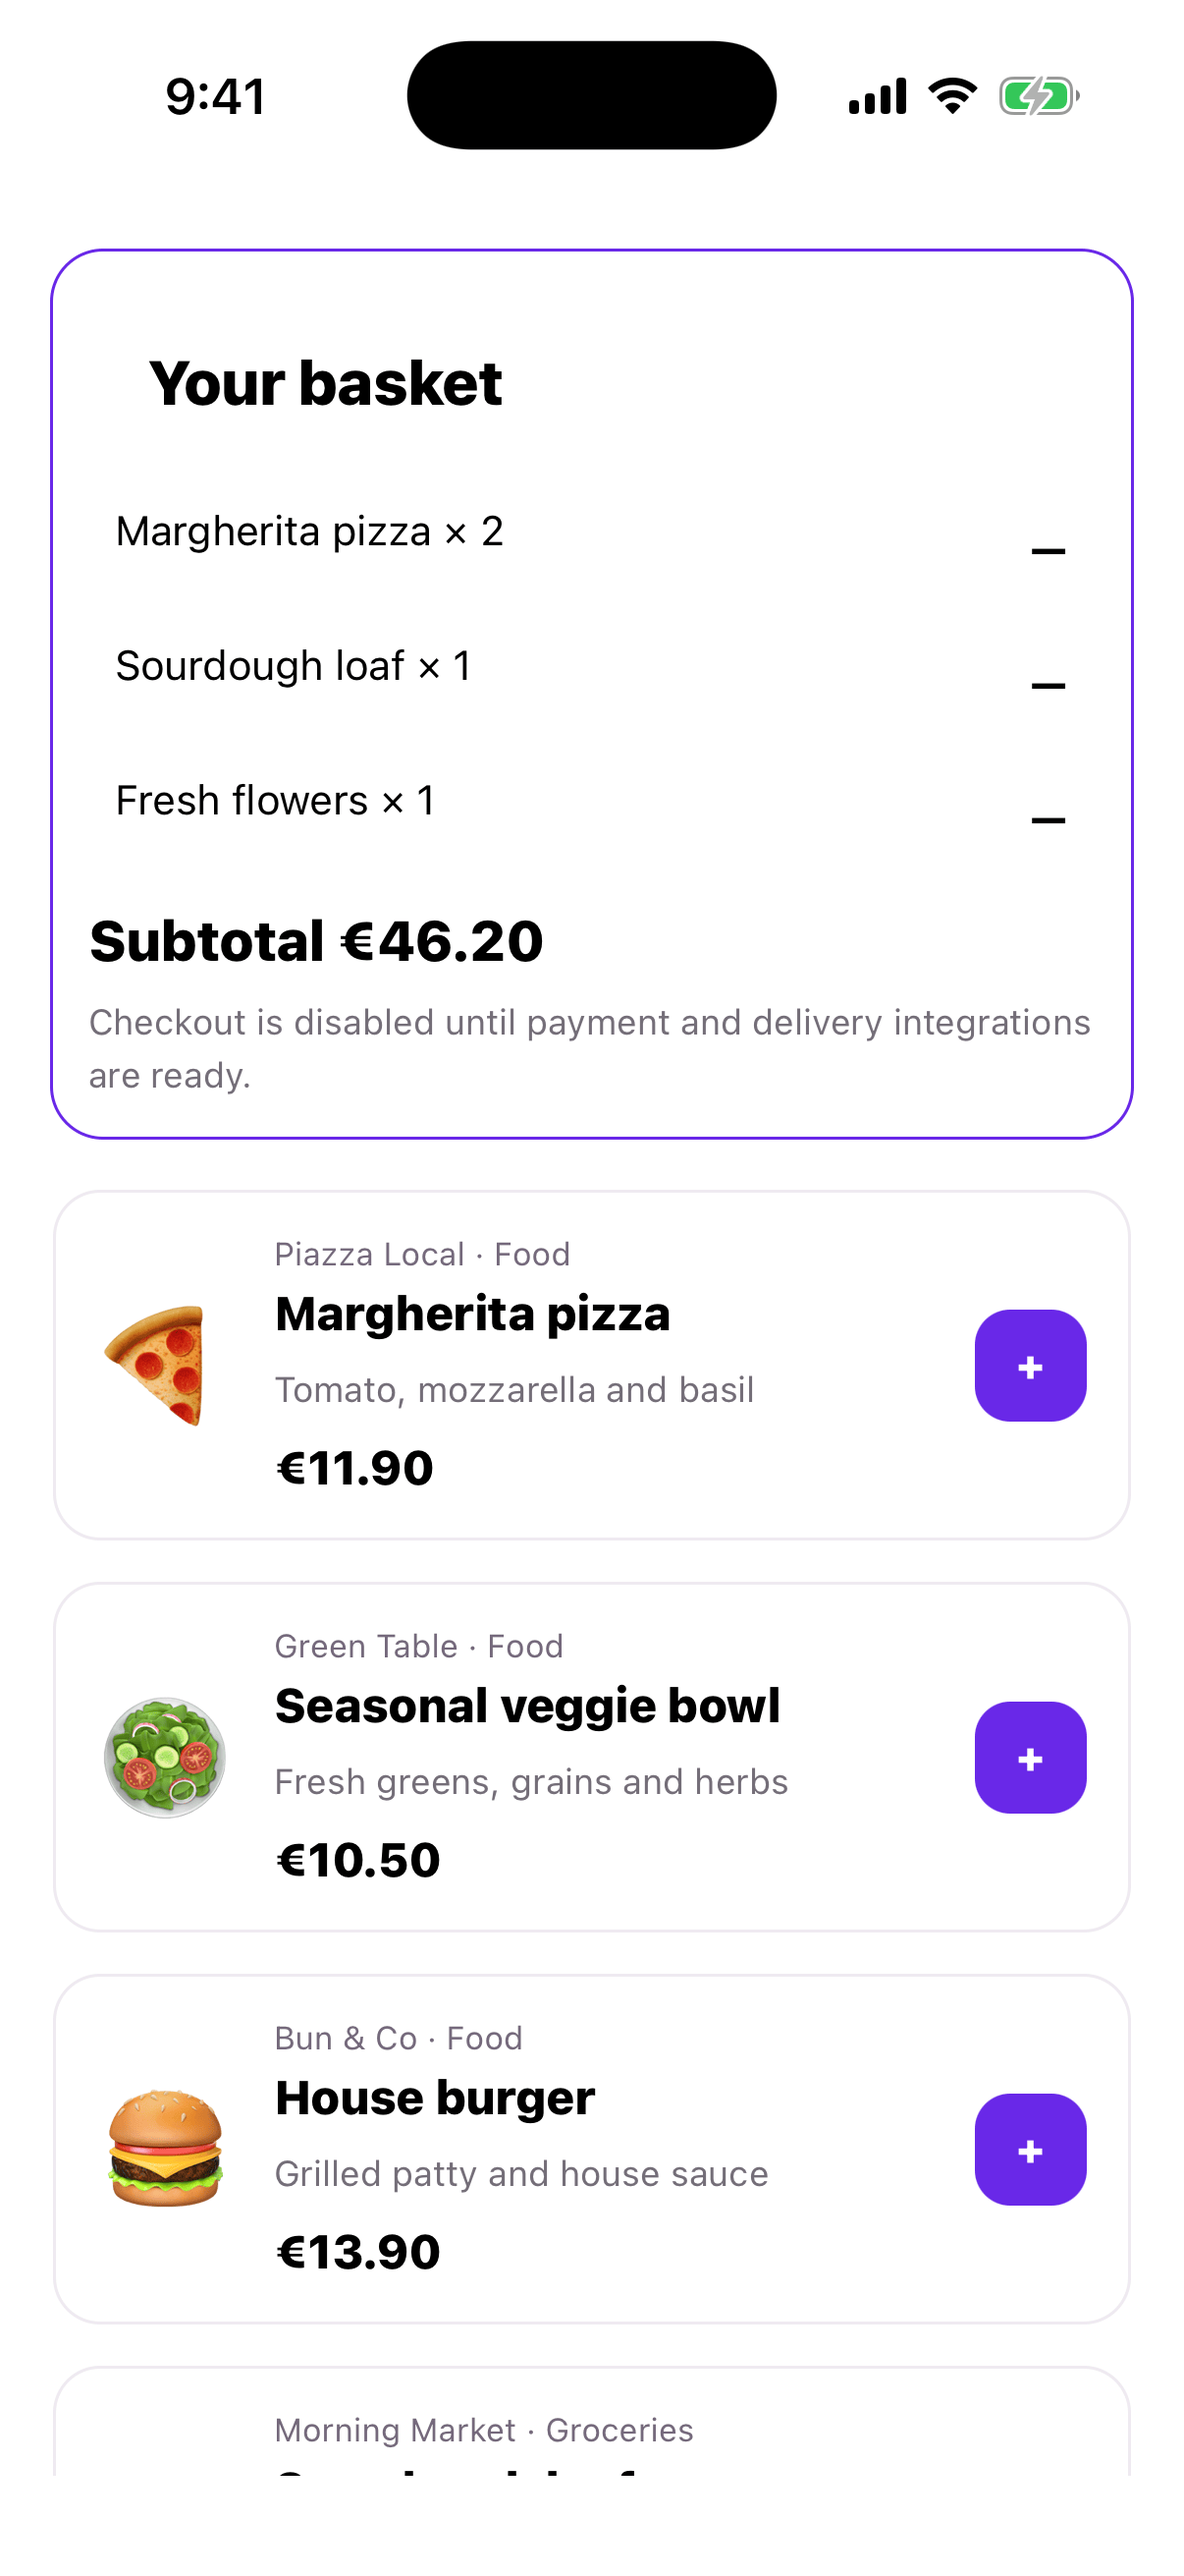
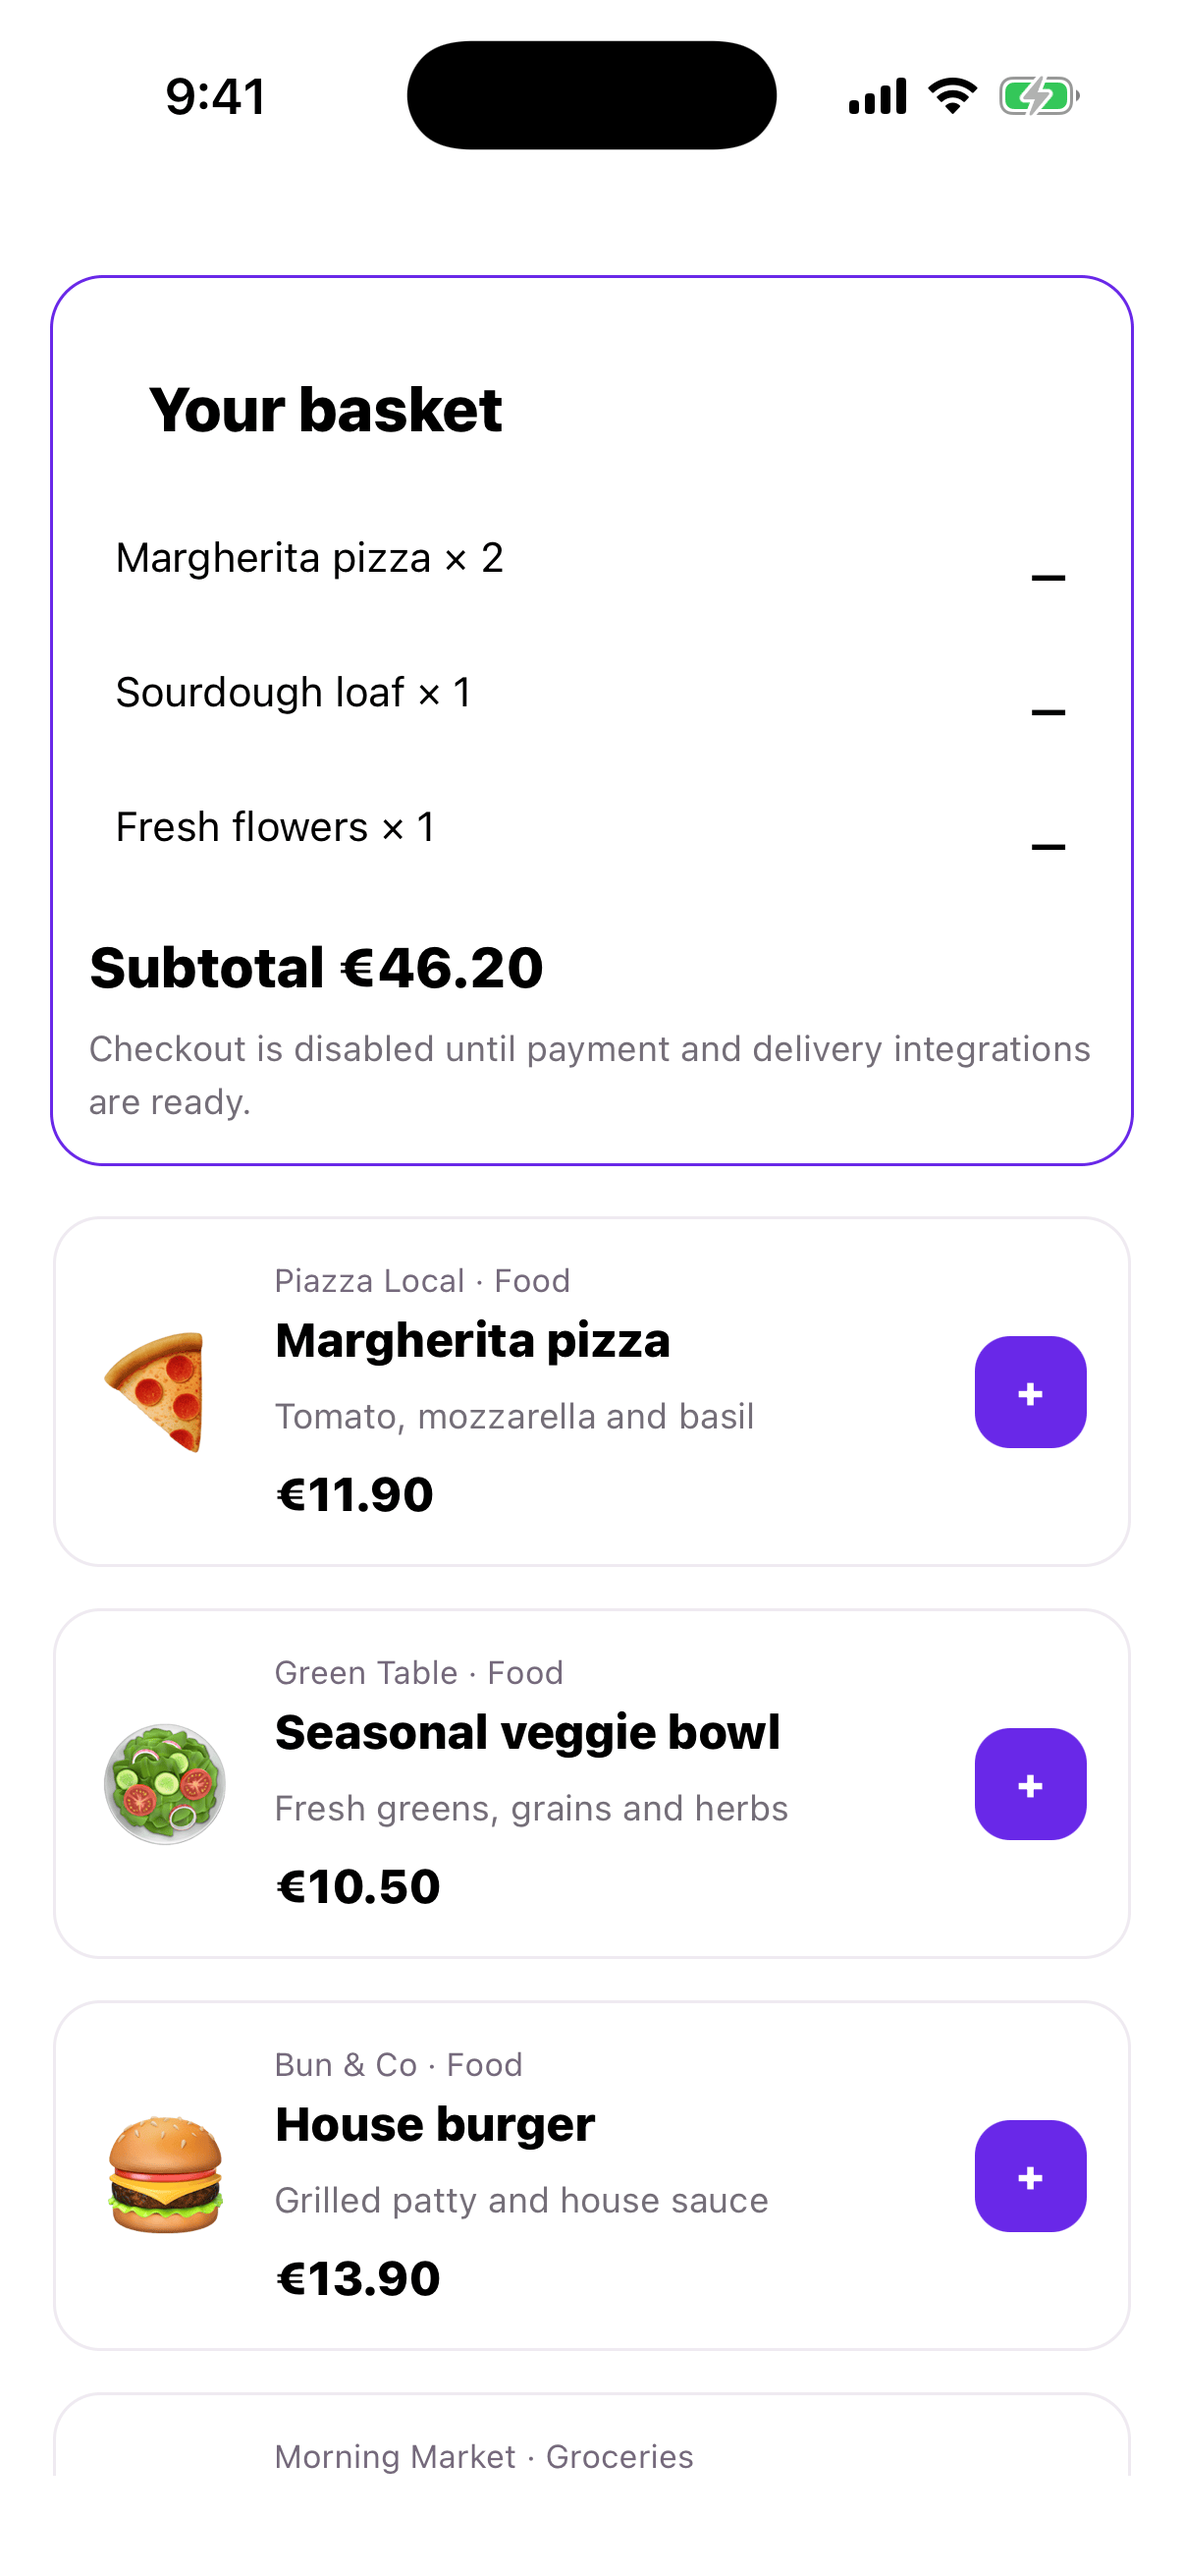
docs(screenshots): native gallery from run 44817080915, checksums and pinned capture tools
Refs #37

diff --git a/README.md b/README.md
@@ -64,16 +64,23 @@ SUT reference imagery captured from the real app. These are not Wopee or Appium 
 
 | Provenance | iOS | Android |
 | --- | --- | --- |
-| Workflow run | [SUT screenshots #44811016593](https://github.com/wopee-io-demos/tazumo/actions/runs/44811016593) | same run |
+| Workflow run | [SUT screenshots #44817080915](https://github.com/wopee-io-demos/tazumo/actions/runs/44817080915) | same run |
 | SUT commit | [`3354ab6`](https://github.com/wopee-io-demos/tazumo/commit/3354ab63930c56ff8fb138e55c1682c54029a04c) (last change to `apps/mobile`, `packages`, workspace config) | same |
-| Capture commit | `e7c1390` (PR head of [#57](https://github.com/wopee-io-demos/tazumo/pull/57)) | same |
+| Capture commit | `b925225` on the [#57](https://github.com/wopee-io-demos/tazumo/pull/57) branch. Later commits in that PR only pinned the Maestro download and emulator action, forced Android light mode and added checksums and resolved versions to `provenance.json` | same |
 | Build | Release `iphonesimulator` build with the JS bundle embedded, unsigned | Release-variant APK with the JS bundle embedded, signed with the debug keystore, x86_64 |
-| Device | iPhone 16 Pro simulator, iOS 26.2, Xcode 16.4, hosted `macos-15` | `sdk_gphone64_x86_64` emulator, Android 14 (API 34), hosted `ubuntu-latest` with KVM |
+| Device | iPhone 16 Pro simulator on the iOS 26.2 runtime, built with Xcode 16.4 (iPhoneSimulator 18.5 SDK), hosted `macos-15` | `sdk_gphone64_x86_64` emulator, Android 14 (API 34), hosted `ubuntu-latest` with KVM |
 | Capture | `xcrun simctl io screenshot`; taps by Maestro 1.41.0 | `adb exec-out screencap -p`; taps by Maestro 1.41.0 |
 | Fixture data | Same synthetic catalogue and cart as the web gallery | same |
-| Captured | 2026-11-20 ([`provenance.json`](docs/screenshots/ios/provenance.json)) | 2026-11-20 ([`provenance.json`](docs/screenshots/android/provenance.json)) |
+| Captured | 2026-11-20 ([`provenance.json`](docs/screenshots/ios/provenance.json), [`SHA256SUMS`](docs/screenshots/ios/SHA256SUMS)) | 2026-11-20 ([`provenance.json`](docs/screenshots/android/provenance.json), [`SHA256SUMS`](docs/screenshots/android/SHA256SUMS)) |
 
-The PNGs are the exact files from the run's `tazumo-screenshots-ios` and `tazumo-screenshots-android` artifacts, optimised in CI with pngquant. Regenerate them by running the [SUT screenshots workflow](.github/workflows/screenshots.yml) (`workflow_dispatch`, or any PR touching `apps/mobile/**`, `packages/**` or the capture files), then `gh run download <run-id> -n tazumo-screenshots-ios -n tazumo-screenshots-android` into `docs/screenshots/`. Release builds are used because debug builds need a running Metro dev server.
+The PNGs and `provenance.json` are the exact files from the run's `tazumo-screenshots-ios` and `tazumo-screenshots-android` artifacts, optimised in CI with pngquant; `SHA256SUMS` was computed from the downloaded artifacts, so the match stays checkable after the artifacts expire (newer runs also write the checksums into `provenance.json`). To regenerate, run the [SUT screenshots workflow](.github/workflows/screenshots.yml) (`workflow_dispatch`, or any PR touching `apps/mobile/**`, `packages/**` or the capture files), then:
+
+```sh
+gh run download <run-id> -n tazumo-screenshots-ios -D docs/screenshots/ios
+gh run download <run-id> -n tazumo-screenshots-android -D docs/screenshots/android
+```
+
+Release builds are used because debug builds need a running Metro dev server.
 
 ## Delivery governance
 [GitHub Issues backlog](https://github.com/wopee-io-demos/tazumo/issues) is the operational tracker. Changes require issue, OpenSpec and, when relevant, ADR. Read [PR quality and merge policy](docs/PR-QUALITY.md).

diff --git a/openspec/changes/readme-screenshots/tasks.md b/openspec/changes/readme-screenshots/tasks.md
@@ -9,9 +9,10 @@
 - [x] Current-head CI green ([run 44809089544](https://github.com/wopee-io-demos/tazumo/actions/runs/44809089544)), independent review recorded, merged in #52 as `f047b5a`.
 
 ## Native gallery (PR 2)
-- [x] `.github/workflows/screenshots.yml`: web job, iOS simulator job (hosted macos-15, Release simulator build, iPhone 16 Pro / iOS 26.2) and Android emulator job (ubuntu-latest + KVM, API 34 x86_64, release-variant APK); Maestro 1.41.0 taps, platform-tool screenshots, pngquant, artifacts. Evidence: [run 44811016593](https://github.com/wopee-io-demos/tazumo/actions/runs/44811016593) on `e7c1390`, all three jobs success.
-- [x] CI PNGs copied into `docs/screenshots/ios/` and `docs/screenshots/android/` with their `provenance.json`; sha256 of committed files equals the downloaded artifacts. All four PNGs opened: real app, catalogue and cart with subtotal €46.20.
-- [x] Android status bar demo mode re-applied right before each screencap (run 44811016593 showed a real clock); validated by the current-head run, committed PNGs stay those of run 44811016593.
+- [x] `.github/workflows/screenshots.yml`: web job, iOS simulator job (hosted macos-15, Release simulator build, iPhone 16 Pro on iOS 26.2) and Android emulator job (ubuntu-latest + KVM, API 34 x86_64, release-variant APK); Maestro 1.41.0 taps, platform-tool screenshots, pngquant, artifacts. Evidence: [run 44811016593](https://github.com/wopee-io-demos/tazumo/actions/runs/44811016593) on `e7c1390` and [run 44817080915](https://github.com/wopee-io-demos/tazumo/actions/runs/44817080915) on `b925225`, all jobs success.
+- [x] Android status bar: run 44811016593 showed a real clock; re-applying demo mode before each screencap gives a clean 9:41 in run 44817080915 (PNGs opened).
+- [x] PNGs and `provenance.json` of run 44817080915 copied into `docs/screenshots/ios/` and `docs/screenshots/android/`; `SHA256SUMS` computed from the downloaded artifacts and verified with `shasum -a 256 -c`. All four PNGs opened: real app, catalogue and cart with subtotal €46.20.
+- [x] Independent review of `b925225`: no blockers. Addressed: PNGs from the current-head run, README regenerate command uses `-D` per platform, checksums (committed `SHA256SUMS`; new runs write `pngSha256` and resolved Expo/React Native versions into `provenance.json`), Maestro downloaded from a pinned release with sha256 check, emulator action pinned to a commit SHA, numeric iOS runtime sort, iOS SDK/runtime stated, udid passed as an argument, Android light mode forced.
 - [ ] Current-head CI green, independent review recorded, merged; merge SHA on #37.
 
 ## Downstream
